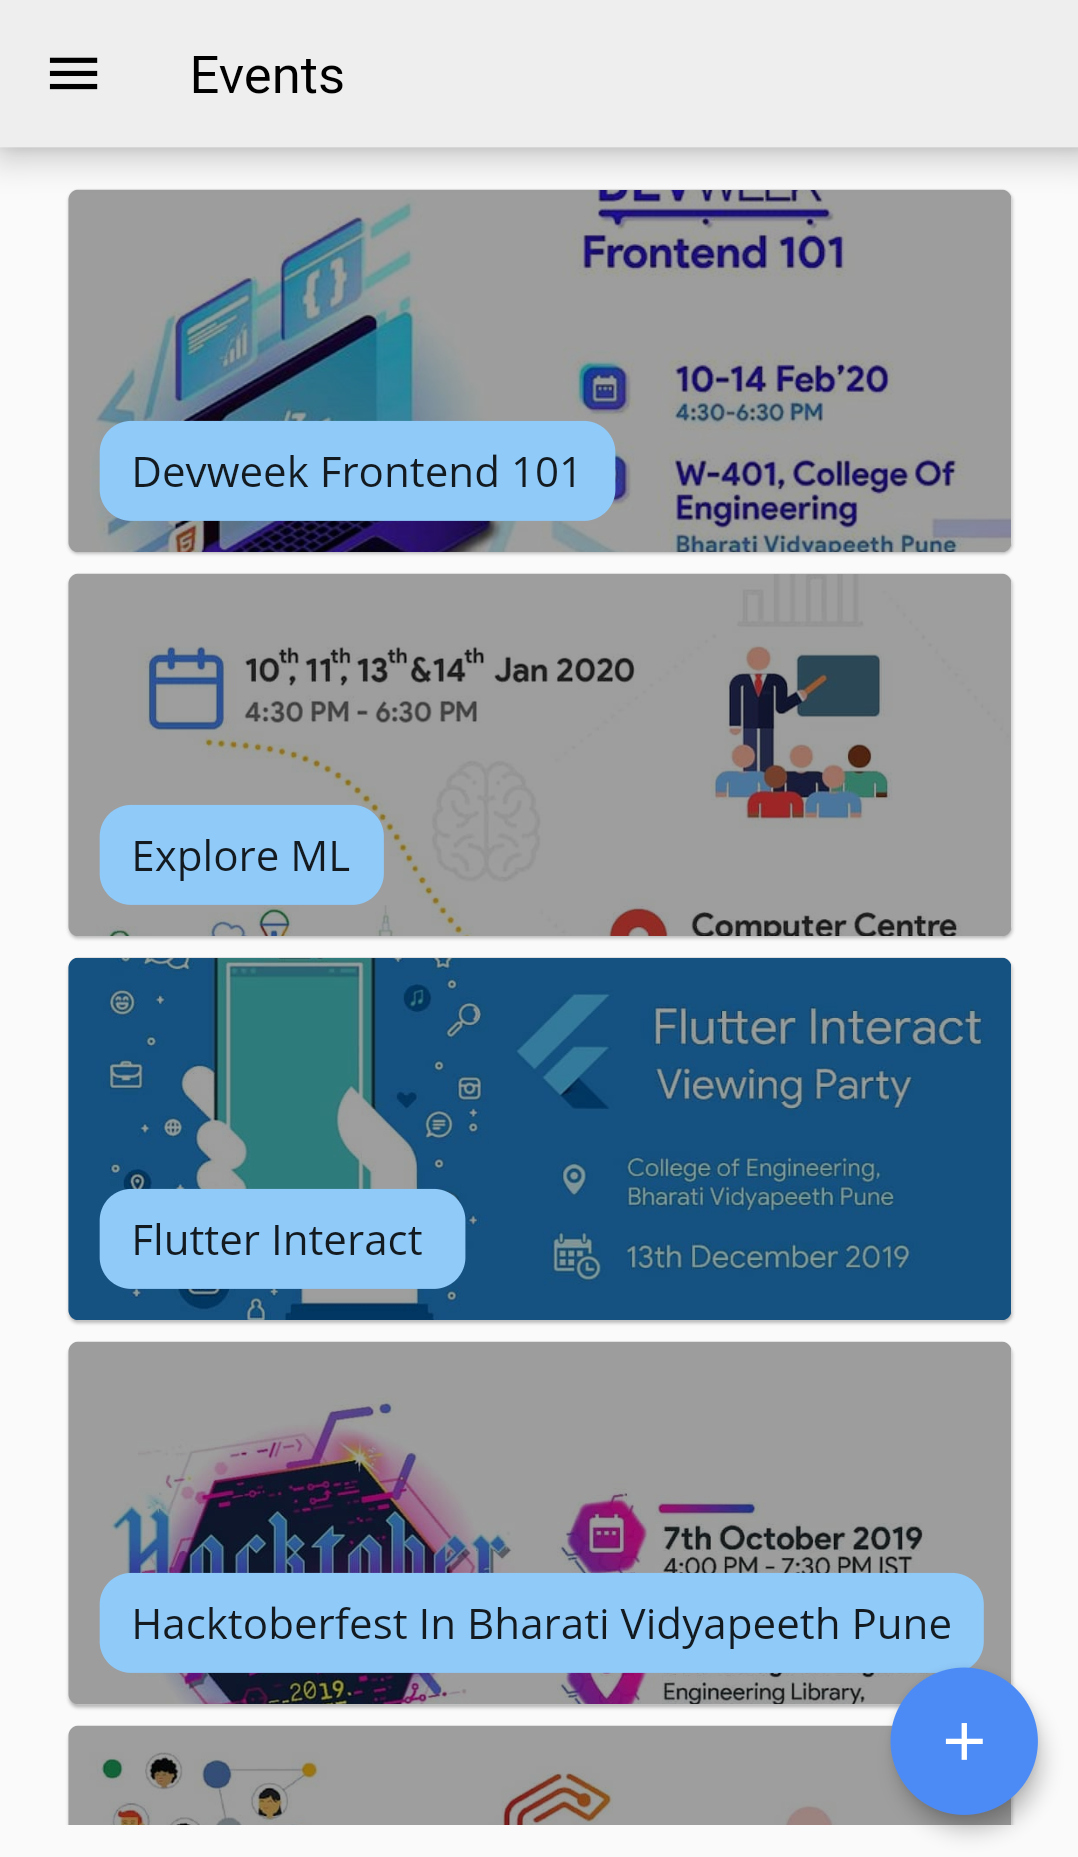
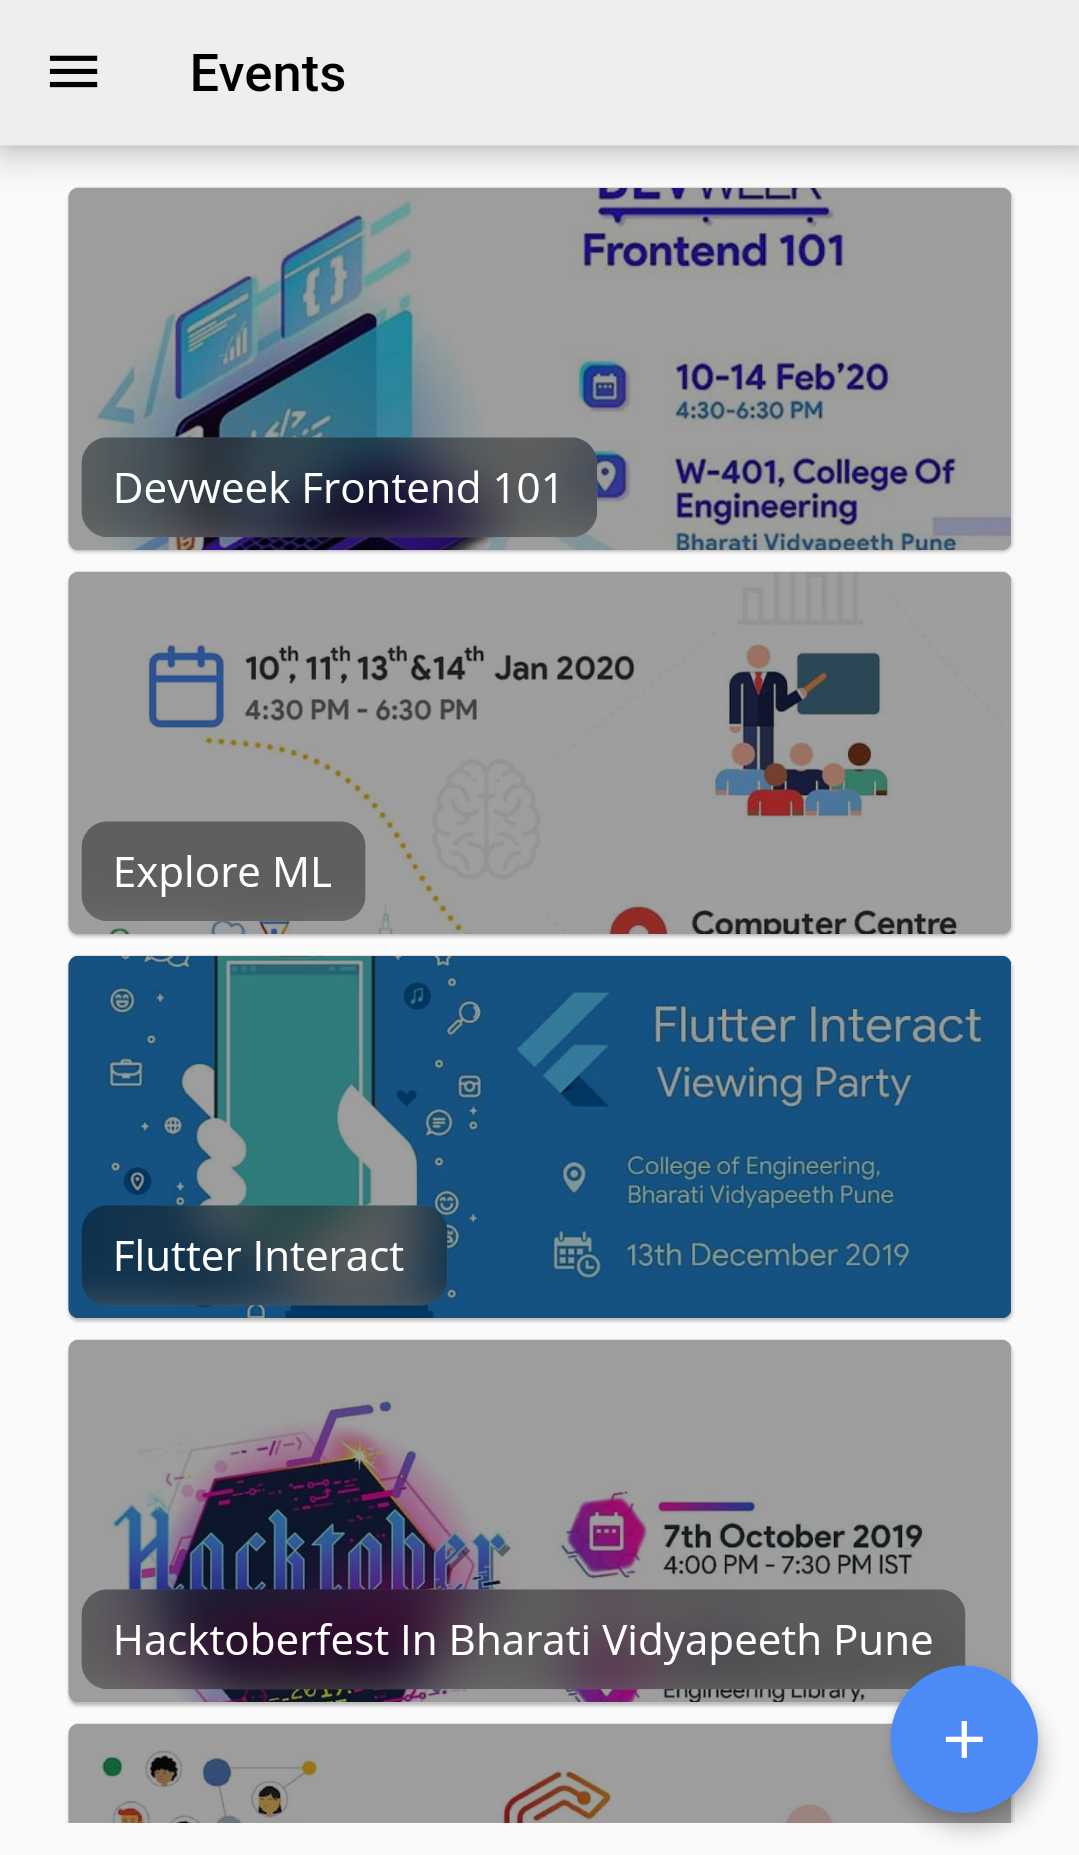
Updated README
- Changed contributors table to something less boring
- Updated events page

diff --git a/README.md b/README.md
@@ -1,17 +1,11 @@
-<h1 align="center"><span><h3>DSC Web-App</h3></span>
-<div align="center">
-<a href="https://flutter.dev/">
-<img src="https://img.shields.io/badge/Built with-flutter-blue?style=flat-square" alt="flutter"/>
-</a>
-<span>|</span>
-<a href="https://github.com/dscbvppune/dsc/commits/master/">
-<img src="https://img.shields.io/github/last-commit/dscbvppune/dsc?style=flat-square" alt="last commit"/>
-</a>
-<span>|</span>
-<a href="https://github.com/dscbvppune/dsc/blob/master/LICENSE">
-<img src="https://img.shields.io/badge/License-MIT-purple?style=flat-square" alt="license"/>
-</a>
-</div>
+<h1 align="center">
+  <span><h3>DSC Web-App</h3></span>
+
+  <p align="center">
+    <a href="https://flutter.dev/"><img src="https://img.shields.io/badge/Built with-flutter-blue?style=for-the-badge" alt="flutter"/></a>
+    <a href="https://github.com/dscbvppune/dsc/commits/master/"><img src="https://img.shields.io/github/last-commit/dscbvppune/dsc?style=for-the-badge" alt="last commit"/></a>
+    <a href="https://github.com/dscbvppune/dsc/blob/master/LICENSE"><img src="https://img.shields.io/badge/License-MIT-purple?style=for-the-badge" alt="license"/></a>
+  </p>
 </h1>
 
 <p align="center">
@@ -19,6 +13,8 @@
 <img src="/docs/images/home1.png" width="34%" alt="home"/>
 <img src="/docs/images/coc.png" width="32%" alt="code of conduct"/>
 </p>
+
+-----
 
 ## Overview
 
@@ -175,12 +171,48 @@ dsc
 
 ## Contributors
 
-| Name              | Nickname                                          | E-Mail                                                                |
-| ----------------- | ------------------------------------------------- | --------------------------------------------------------------------- |
-| Abhishek Dubey    | [Abhi011999](https://github.com/Abhi011999)       | [abhi.dubey011999@gmail.com](mailto:abhi.dubey011999@gmail.com)       |
-| Nishchay Verma    | [Nishchayverma](https://github.com/Nishchayverma) | [nishchayverma20@gmail.com](mailto:nishchayverma20@gmail.com)         |
-| Priyanshu Agarwal | [priyanshu-01](https://github.com/priyanshu-01)   | [priyanshu.agarwal88@gmail.com](mailto:priyanshu.agarwal88@gmail.com) |
-| Sparsh Tandon     | [codesparsh](https://github.com/codesparsh)       | [snowmansparsh4@gmail.com](mailto:snowmansparsh4@gmail.com)           |
+<table>
+<tbody>
+  <tr width="100%">
+    <td align="center">
+      <a href="https://github.com/Abhi011999">
+        <img width="150" src="https://avatars2.githubusercontent.com/u/27683952?s=400&v=4"><br>
+        @Abhi011999
+      </a> <br>
+      <strong>Abhishek Dubey</strong><br>
+      &bull; &bull; &bull;<br>
+      <a href="mailto:abhi.dubey011999@gmail.com">E-Mail</a>
+    </td>
+    <td align="center">
+      <a href="https://github.com/Nishchayverma">
+        <img width="150" src="https://avatars1.githubusercontent.com/u/55492465?s=400&v=4"><br>
+        @Nishchayverma
+      </a> <br>
+      <strong>Nishchay Verma</strong><br>
+      &bull; &bull; &bull;<br>
+      <a href="mailto:nishchayverma20@gmail.com">E-Mail</a>
+    </td>
+    <td align="center">
+      <a href="https://github.com/priyanshu-01">
+        <img width="150" src="https://avatars3.githubusercontent.com/u/56172661?s=400&v=4"><br>
+        @priyanshu-01
+      </a> <br>
+      <strong>Priyanshu Agarwal</strong><br>
+      &bull; &bull; &bull;<br>
+      <a href="mailto:priyanshu.agarwal88@gmail.com">E-Mail</a>
+    </td>
+    <td align="center">
+      <a href="https://github.com/codesparsh">
+        <img width="150" src="https://avatars2.githubusercontent.com/u/43840499?s=400&v=4"><br>
+        @codesparsh
+      </a> <br>
+      <strong>Sparsh Tandon</strong><br>
+      &bull; &bull; &bull;<br>
+      <a href="mailto:snowmansparsh4@gmail.com">E-Mail</a>
+    </td>
+  </tr>
+</tbody>
+</table>
 
 ## Contributing
 
